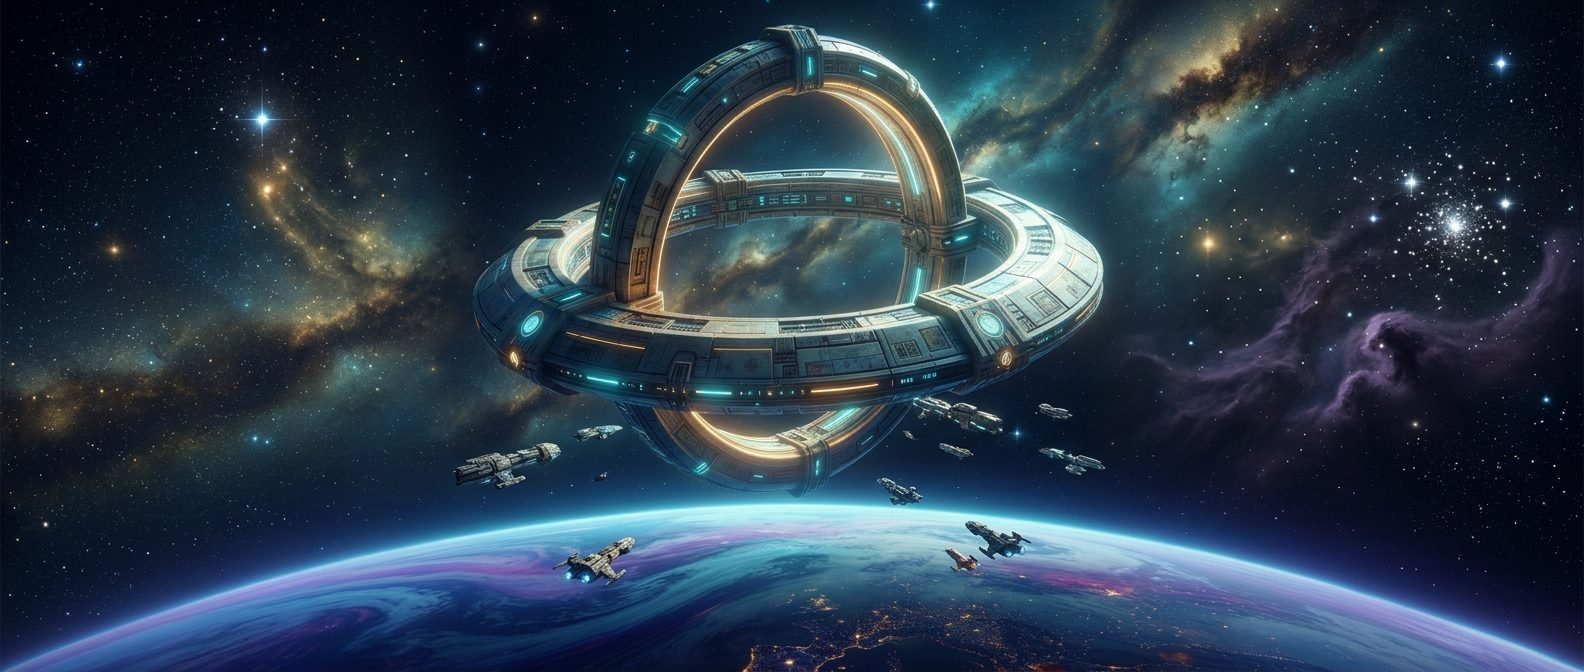
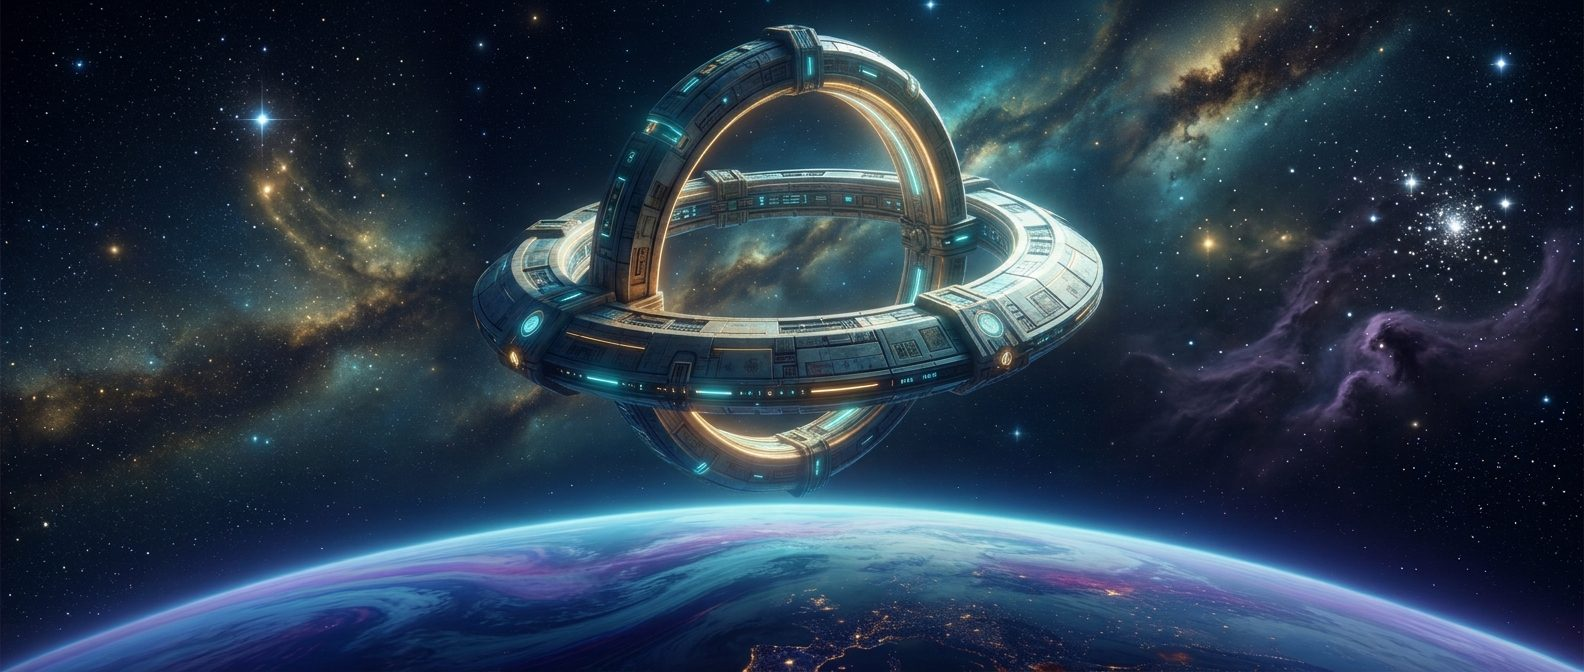
Page titre animée : vaisseaux en orbite autour de l'Arche, nuages sur la planète ; prompts pour Gemini

diff --git a/src/titleFx.js b/src/titleFx.js
@@ -1,0 +1,246 @@
+// Animations de la page titre, posées sur l'image (public/titre.jpg, 1584 × 672) :
+// - des nuages qui glissent lentement sur la planète (canvas 2D, découpé au cercle de l'horizon) ;
+// - des vaisseaux du jeu en orbite autour de l'Arche (petite scène Three.js transparente).
+// Tout est exprimé en pixels de l'image : la « scène » HTML a les proportions de l'image et la
+// couvre à l'écran, donc les orbites restent sur l'Arche quelle que soit la fenêtre.
+import * as THREE from 'three';
+import { createShip, animateShip, SHIP_ACCENTS } from './ships.js';
+import { SPECIES } from './config.js';
+
+export const IMAGE_W = 1584;
+export const IMAGE_H = 672;
+
+// Horizon de la planète, relevé sur l'image : un cercle (en pixels de l'image).
+const PLANET = { x: 792, y: 2253, r: 1760 };
+// Centre de l'Arche et demi-largeur de son anneau horizontal (pixels de l'image).
+const ARCHE = { x: 787, y: 290, halfWidth: 318 };
+
+// ---------- Nuages ----------
+const CLOUD_TOP = Math.floor(PLANET.y - PLANET.r) - 4; // haut de la planète
+const CLOUD_H = IMAGE_H - CLOUD_TOP;
+const CLOUD_SPEED = 9; // pixels de l'image par seconde
+
+// Bruit de valeur fractal, périodique en x (la bande se répète sans couture).
+function cloudTile(w, h) {
+  const canvas = document.createElement('canvas');
+  canvas.width = w;
+  canvas.height = h;
+  const ctx = canvas.getContext('2d');
+  const img = ctx.createImageData(w, h);
+  const hash = (x, y, o) => {
+    const s = Math.sin(x * 127.1 + y * 311.7 + o * 74.7) * 43758.5453;
+    return s - Math.floor(s);
+  };
+  const noise = (x, y, period, o) => {
+    const x0 = Math.floor(x);
+    const y0 = Math.floor(y);
+    const fx = x - x0;
+    const fy = y - y0;
+    const sx = fx * fx * (3 - 2 * fx);
+    const sy = fy * fy * (3 - 2 * fy);
+    const v = (i, j) => hash(((x0 + i) % period + period) % period, y0 + j, o);
+    return (v(0, 0) * (1 - sx) + v(1, 0) * sx) * (1 - sy) + (v(0, 1) * (1 - sx) + v(1, 1) * sx) * sy;
+  };
+  for (let y = 0; y < h; y++) {
+    // vers l'horizon, les nuages sont vus de biais : on les étire en hauteur
+    const depth = y / h;
+    for (let x = 0; x < w; x++) {
+      let n = 0;
+      let amp = 0.55;
+      let freq = 6;
+      for (let o = 0; o < 5; o++) {
+        n += amp * noise((x / w) * freq, (y / h) * freq * (0.6 + depth * 1.4) * 0.5, freq, o);
+        amp *= 0.5;
+        freq *= 2;
+      }
+      const a = Math.max(0, Math.min(1, (n - 0.4) * 2.6));
+      const i = (y * w + x) * 4;
+      img.data[i] = 225;
+      img.data[i + 1] = 238;
+      img.data[i + 2] = 255;
+      img.data[i + 3] = a * 255;
+    }
+  }
+  ctx.putImageData(img, 0, 0);
+  return canvas;
+}
+
+// Masque : le disque de la planète, estompé près de l'horizon (l'atmosphère reste nette).
+function planetMask(w, h) {
+  const canvas = document.createElement('canvas');
+  canvas.width = w;
+  canvas.height = h;
+  const ctx = canvas.getContext('2d');
+  const cy = PLANET.y - CLOUD_TOP;
+  const g = ctx.createRadialGradient(PLANET.x, cy, PLANET.r - 260, PLANET.x, cy, PLANET.r - 6);
+  g.addColorStop(0, 'rgba(0,0,0,0.85)');
+  g.addColorStop(0.75, 'rgba(0,0,0,0.6)');
+  g.addColorStop(1, 'rgba(0,0,0,0)');
+  ctx.fillStyle = g;
+  ctx.beginPath();
+  ctx.arc(PLANET.x, cy, PLANET.r - 6, 0, Math.PI * 2);
+  ctx.fill();
+  return canvas;
+}
+
+function createClouds(stage) {
+  const canvas = document.createElement('canvas');
+  canvas.className = 'title-clouds';
+  canvas.width = IMAGE_W;
+  canvas.height = CLOUD_H;
+  canvas.style.top = `${(CLOUD_TOP / IMAGE_H) * 100}%`;
+  canvas.style.height = `${(CLOUD_H / IMAGE_H) * 100}%`;
+  stage.appendChild(canvas);
+  const ctx = canvas.getContext('2d');
+  const tile = cloudTile(1024, CLOUD_H);
+  const mask = planetMask(IMAGE_W, CLOUD_H);
+  return {
+    draw(time) {
+      const off = (time * CLOUD_SPEED) % tile.width;
+      ctx.globalCompositeOperation = 'source-over';
+      ctx.clearRect(0, 0, IMAGE_W, CLOUD_H);
+      for (let x = off - tile.width; x < IMAGE_W; x += tile.width) ctx.drawImage(tile, x, 0);
+      ctx.globalCompositeOperation = 'destination-in';
+      ctx.drawImage(mask, 0, 0);
+    },
+    dispose() {
+      canvas.remove();
+    },
+  };
+}
+
+// ---------- Vaisseaux en orbite ----------
+// Monde 3D : 1 unité = 100 pixels de l'image, origine au centre de l'image, y vers le haut.
+// La caméra est réglée pour que le plan z = 0 recouvre exactement l'image.
+const U = 100;
+const FOV = 30;
+const toWorld = (px, py) => new THREE.Vector2((px - IMAGE_W / 2) / U, (IMAGE_H / 2 - py) / U);
+const ORBIT_TILT = THREE.MathUtils.degToRad(21); // l'anneau de l'Arche est vu sous cet angle
+const KINDS = ['sonde', 'corvette', 'fregate', 'colonie', 'transport', 'sonde'];
+
+function createFleet(stage) {
+  const renderer = new THREE.WebGLRenderer({ antialias: true, alpha: true });
+  renderer.setClearColor(0x000000, 0);
+  renderer.domElement.className = 'title-ships';
+  stage.appendChild(renderer.domElement);
+
+  const scene = new THREE.Scene();
+  const camera = new THREE.PerspectiveCamera(FOV, IMAGE_W / IMAGE_H, 0.1, 100);
+  camera.position.z = IMAGE_H / 2 / U / Math.tan(THREE.MathUtils.degToRad(FOV / 2));
+  scene.add(new THREE.AmbientLight(0x8090b0, 1.1));
+  const sun = new THREE.DirectionalLight(0xfff0d8, 2.6); // lumière dorée venue du haut à gauche
+  sun.position.set(-6, 5, 6);
+  scene.add(sun);
+  const rim = new THREE.DirectionalLight(0x5fe3ff, 1.2); // reflet cyan de l'atmosphère
+  rim.position.set(2, -6, -2);
+  scene.add(rim);
+
+  const center = toWorld(ARCHE.x, ARCHE.y);
+  const halfWidth = ARCHE.halfWidth / U;
+  const styles = [null, ...Object.values(SPECIES).map((s) => s.shipStyle).filter(Boolean)];
+  const ships = KINDS.map((kind, i) => {
+    const style = styles[Math.floor(Math.random() * styles.length)];
+    const accent = SHIP_ACCENTS[i % SHIP_ACCENTS.length];
+    const model = createShip(1000 + Math.floor(Math.random() * 1e6), accent, '', kind, style);
+    // matériaux propres à ce vaisseau, pour pouvoir l'estomper (certains sont partagés)
+    const mats = [];
+    model.traverse((o) => {
+      if (!o.material) return;
+      o.material = Array.isArray(o.material) ? o.material.map((m) => m.clone()) : o.material.clone();
+      for (const m of [o.material].flat()) {
+        m.userData.baseOpacity = m.opacity;
+        m.transparent = true;
+        mats.push(m);
+      }
+    });
+    const holder = new THREE.Group();
+    holder.add(model);
+    holder.scale.setScalar(0.28 + Math.random() * 0.08);
+    scene.add(holder);
+    return {
+      model,
+      holder,
+      mats,
+      radius: 3.7 + i * 0.36 + Math.random() * 0.2,
+      speed: (0.07 + Math.random() * 0.05) * (i % 3 === 2 ? -1 : 1), // quelques-uns tournent en sens inverse
+      phase: (i / KINDS.length) * Math.PI * 2 + Math.random() * 0.5,
+      lift: (Math.random() - 0.5) * 0.5, // décalage vertical de l'orbite
+      tilt: ORBIT_TILT + (Math.random() - 0.5) * 0.12,
+      opacity: -1,
+    };
+  });
+
+  const pos = new THREE.Vector3();
+  const next = new THREE.Vector3();
+  const orbitPoint = (s, angle, out) =>
+    out.set(
+      center.x + Math.cos(angle) * s.radius,
+      center.y + s.lift - Math.sin(angle) * s.radius * Math.sin(s.tilt),
+      Math.sin(angle) * s.radius * Math.cos(s.tilt),
+    );
+
+  function resize() {
+    const w = stage.clientWidth;
+    const h = stage.clientHeight;
+    renderer.setPixelRatio(Math.min(window.devicePixelRatio, 1.5));
+    renderer.setSize(w, h, false);
+  }
+  resize();
+
+  return {
+    resize,
+    draw(time) {
+      for (const s of ships) {
+        const angle = s.phase + time * s.speed;
+        orbitPoint(s, angle, pos);
+        orbitPoint(s, angle + Math.sign(s.speed) * 0.05, next);
+        s.holder.position.copy(pos);
+        s.holder.lookAt(next);
+        // Derrière l'Arche (z < 0, au-dessus de sa coque) : le vaisseau disparaît en fondu.
+        const behind = THREE.MathUtils.smoothstep(-pos.z, 0.2, 1.4);
+        const overHull = 1 - THREE.MathUtils.smoothstep(Math.abs(pos.x - center.x), halfWidth - 0.4, halfWidth + 0.5);
+        const opacity = 1 - behind * overHull;
+        if (Math.abs(opacity - s.opacity) > 0.01) {
+          s.opacity = opacity;
+          for (const m of s.mats) m.opacity = m.userData.baseOpacity * opacity;
+          s.holder.visible = opacity > 0.02;
+        }
+        animateShip(s.model, time, 0.75);
+      }
+      renderer.render(scene, camera);
+    },
+    dispose() {
+      renderer.dispose();
+      renderer.forceContextLoss();
+      renderer.domElement.remove();
+    },
+  };
+}
+
+// Lance les deux animations dans `stage` ; renvoie stop() qui arrête tout et libère la mémoire.
+export function startTitleFx(stage) {
+  const clouds = createClouds(stage);
+  let fleet = null;
+  try {
+    fleet = createFleet(stage);
+  } catch (e) {
+    console.warn('Page titre : vaisseaux désactivés (WebGL indisponible)', e);
+  }
+  const t0 = performance.now();
+  let frame = 0;
+  const loop = () => {
+    const time = (performance.now() - t0) / 1000;
+    clouds.draw(time);
+    fleet?.draw(time);
+    frame = requestAnimationFrame(loop);
+  };
+  loop();
+  const onResize = () => fleet?.resize();
+  window.addEventListener('resize', onResize);
+  return function stop() {
+    cancelAnimationFrame(frame);
+    window.removeEventListener('resize', onResize);
+    clouds.dispose();
+    fleet?.dispose();
+  };
+}

diff --git a/src/titleView.js b/src/titleView.js
@@ -2,6 +2,7 @@
 // Elle se pose par-dessus l'écran d'accueil (ou le choix d'espèce), déjà ouvert dessous :
 // « Jouer » la fait simplement disparaître en fondu.
 import './styles/titre.css';
+import { startTitleFx } from './titleFx.js';
 
 const STARS = 26; // étoiles scintillantes ajoutées sur l'image
 
@@ -16,11 +17,14 @@ export function createTitleView(root) {
     return `<i style="left:${x}%;top:${y}%;width:${size}px;height:${size}px;animation-delay:${delay}s;animation-duration:${duration}s"></i>`;
   }).join('');
   root.innerHTML = `
-    <div class="title-bg" style="background-image:url('${import.meta.env.BASE_URL}titre.jpg')"></div>
+    <div class="title-stage"><div class="title-zoom">
+      <img class="title-bg" src="${import.meta.env.BASE_URL}titre.jpg" alt="" />
+    </div></div>
     <div class="title-stars" aria-hidden="true">${stars}</div>
     <h1 class="title-name">L'Arche des Veilleurs</h1>
     <button class="title-play" type="button">Jouer</button>`;
   root.hidden = true;
+  let stopFx = null; // nuages et vaisseaux animés (titleFx.js)
 
   const onKey = (e) => {
     // la page titre capte le clavier : rien ne doit agir sur la partie dessous
@@ -36,13 +40,20 @@ export function createTitleView(root) {
     root.classList.remove('leaving');
     window.addEventListener('keydown', onKey, true);
     root.querySelector('.title-play').focus({ preventScroll: true });
+    if (!stopFx && !matchMedia('(prefers-reduced-motion: reduce)').matches) {
+      stopFx = startTitleFx(root.querySelector('.title-zoom'));
+    }
   }
 
   function close() {
     if (root.hidden || root.classList.contains('leaving')) return;
     window.removeEventListener('keydown', onKey, true);
     root.classList.add('leaving');
-    setTimeout(() => (root.hidden = true), 700); // durée du fondu (titre.css)
+    setTimeout(() => {
+      root.hidden = true;
+      stopFx?.(); // plus rien ne tourne pendant la partie
+      stopFx = null;
+    }, 700); // durée du fondu (titre.css)
   }
 
   root.querySelector('.title-play').addEventListener('click', close);

diff --git a/src/styles/titre.css b/src/styles/titre.css
@@ -15,13 +15,40 @@
   pointer-events: none;
 }
 
-/* L'image, très large, est cadrée sur l'Arche : ce sont les côtés qui sont coupés. */
-.title-bg {
+/* La « scène » a les proportions de l'image (1584 × 672) et couvre l'écran, cadrée sur l'Arche :
+   ce sont les côtés qui sont coupés. Nuages et vaisseaux (titleFx.js) y sont placés en pourcentages. */
+.title-stage {
+  position: absolute;
+  left: 50%;
+  top: 40%;
+  width: max(100vw, calc(100vh * 1584 / 672));
+  height: max(100vh, calc(100vw * 672 / 1584));
+  transform: translate(-50%, -40%);
+}
+.title-zoom {
   position: absolute;
   inset: 0;
-  background-size: cover;
-  background-position: 50% 40%;
   animation: title-zoom 40s ease-in-out infinite alternate;
+}
+.title-bg,
+.title-clouds,
+.title-ships {
+  position: absolute;
+  left: 0;
+  width: 100%;
+  display: block;
+}
+.title-bg,
+.title-ships {
+  top: 0;
+  height: 100%;
+}
+.title-clouds {
+  mix-blend-mode: screen;
+  opacity: 0.5;
+}
+.title-ships {
+  pointer-events: none;
 }
 /* Voile sombre en haut (lisibilité du titre) et en bas (bouton). */
 #title::after {
@@ -123,7 +150,7 @@
 }
 
 @media (prefers-reduced-motion: reduce) {
-  .title-bg,
+  .title-zoom,
   .title-stars i,
   .title-name,
   .title-play {

diff --git a/docs/outils/gemini-image.py b/docs/outils/gemini-image.py
@@ -1,0 +1,42 @@
+# Génère une image avec l'API Gemini (Google AI Studio).
+# La clé est lue dans ~/.gemini-cle.txt (hors du dépôt, qui est public) : jamais dans le code.
+# Usage : python docs/outils/gemini-image.py <fichier prompt.txt> <sortie.png> [image de style] [modèle]
+# Les modèles sont essayés dans l'ordre jusqu'à ce que l'un réponde.
+import base64, json, sys, urllib.request, urllib.error
+from pathlib import Path
+
+prompt = Path(sys.argv[1]).read_text(encoding='utf-8')
+sortie = Path(sys.argv[2])
+style = Path(sys.argv[3]) if len(sys.argv) > 3 and sys.argv[3] != '-' else None
+modeles = [sys.argv[4]] if len(sys.argv) > 4 else ['gemini-3-pro-image', 'gemini-3.1-flash-image', 'gemini-2.5-flash-image']
+cle = (Path.home() / '.gemini-cle.txt').read_text(encoding='utf-8').strip()
+
+parts = []
+if style:
+    parts.append({'inline_data': {'mime_type': 'image/jpeg', 'data': base64.b64encode(style.read_bytes()).decode()}})
+    prompt = "Garde exactement le style de peinture de l'image jointe (mais pas sa composition).\n\n" + prompt
+parts.append({'text': prompt})
+corps = json.dumps({'contents': [{'parts': parts}], 'generationConfig': {'responseModalities': ['IMAGE', 'TEXT']}}).encode()
+
+for modele in modeles:
+    req = urllib.request.Request(
+        f'https://generativelanguage.googleapis.com/v1beta/models/{modele}:generateContent',
+        data=corps, headers={'Content-Type': 'application/json', 'x-goog-api-key': cle})
+    try:
+        with urllib.request.urlopen(req, timeout=180) as r:
+            rep = json.load(r)
+    except urllib.error.HTTPError as e:
+        err = json.loads(e.read() or b'{}').get('error', {})
+        print(f'{modele} : erreur {e.code} {err.get("status", "")} : {err.get("message", "")[:300]}')
+        continue
+    for cand in rep.get('candidates', []):
+        for p in cand.get('content', {}).get('parts', []):
+            data = p.get('inlineData') or p.get('inline_data')
+            if data:
+                sortie.write_bytes(base64.b64decode(data['data']))
+                print(f'{modele} : image écrite dans {sortie}')
+                sys.exit(0)
+            if p.get('text'):
+                print(f'{modele} (texte) : {p["text"][:300]}')
+    print(f'{modele} : pas d\'image dans la réponse ({json.dumps(rep)[:300]})')
+sys.exit(1)
